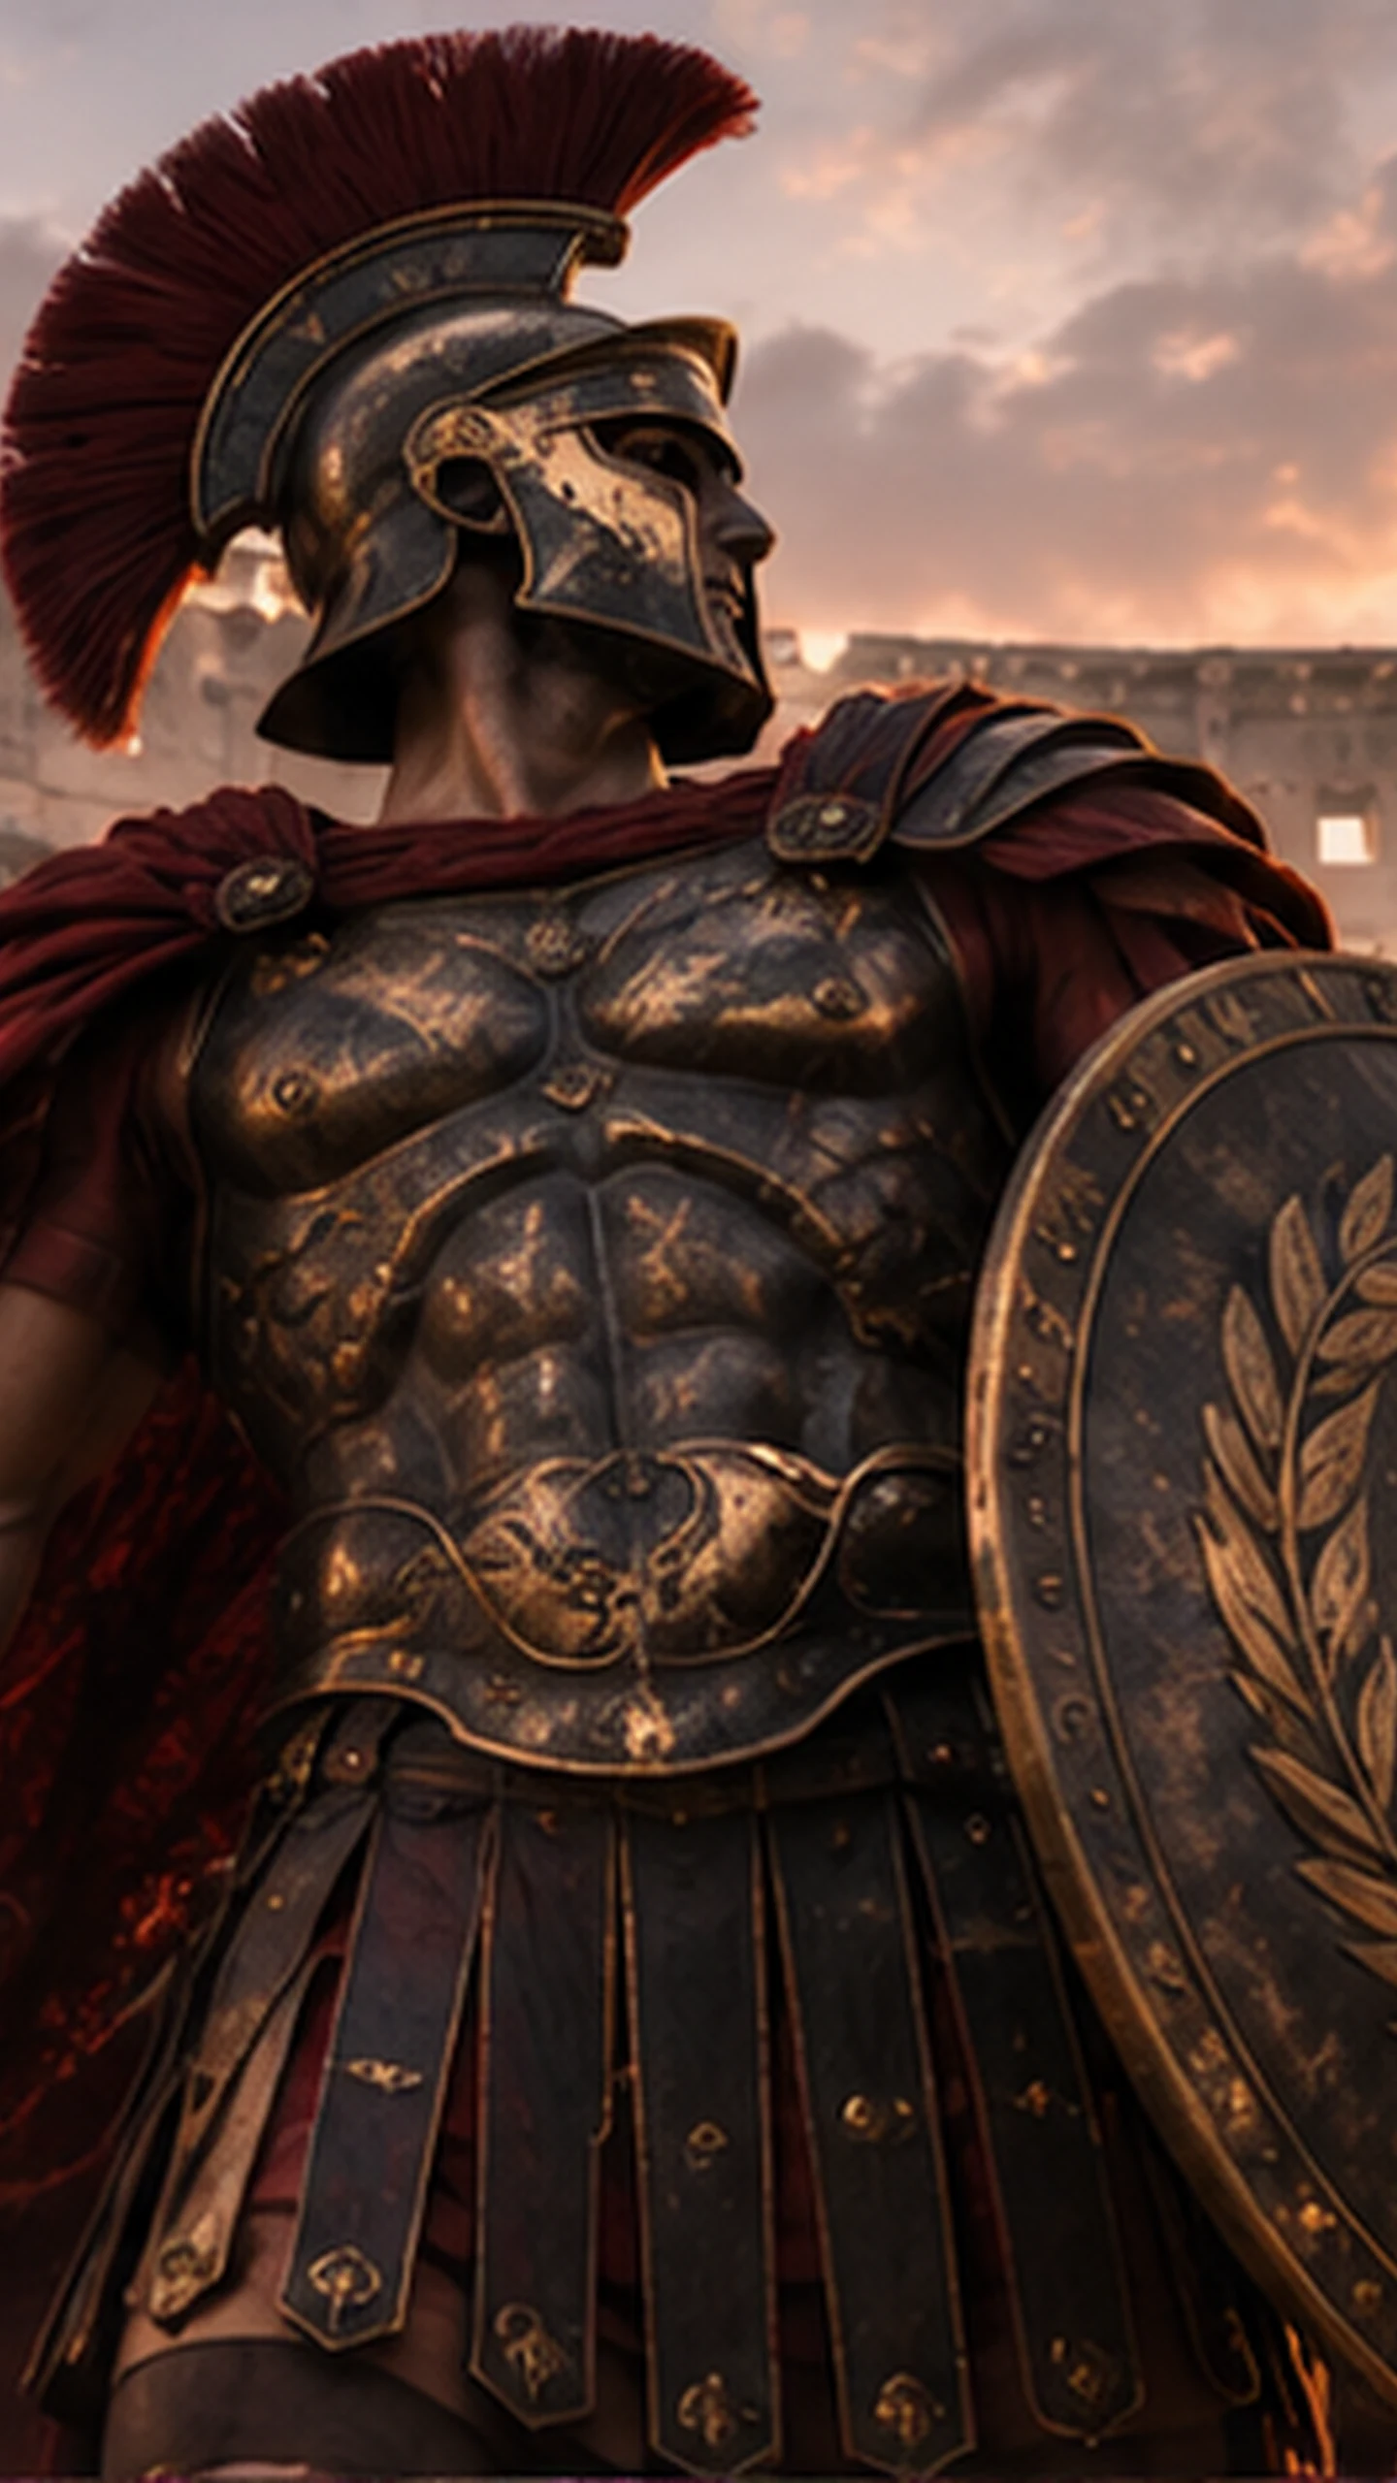
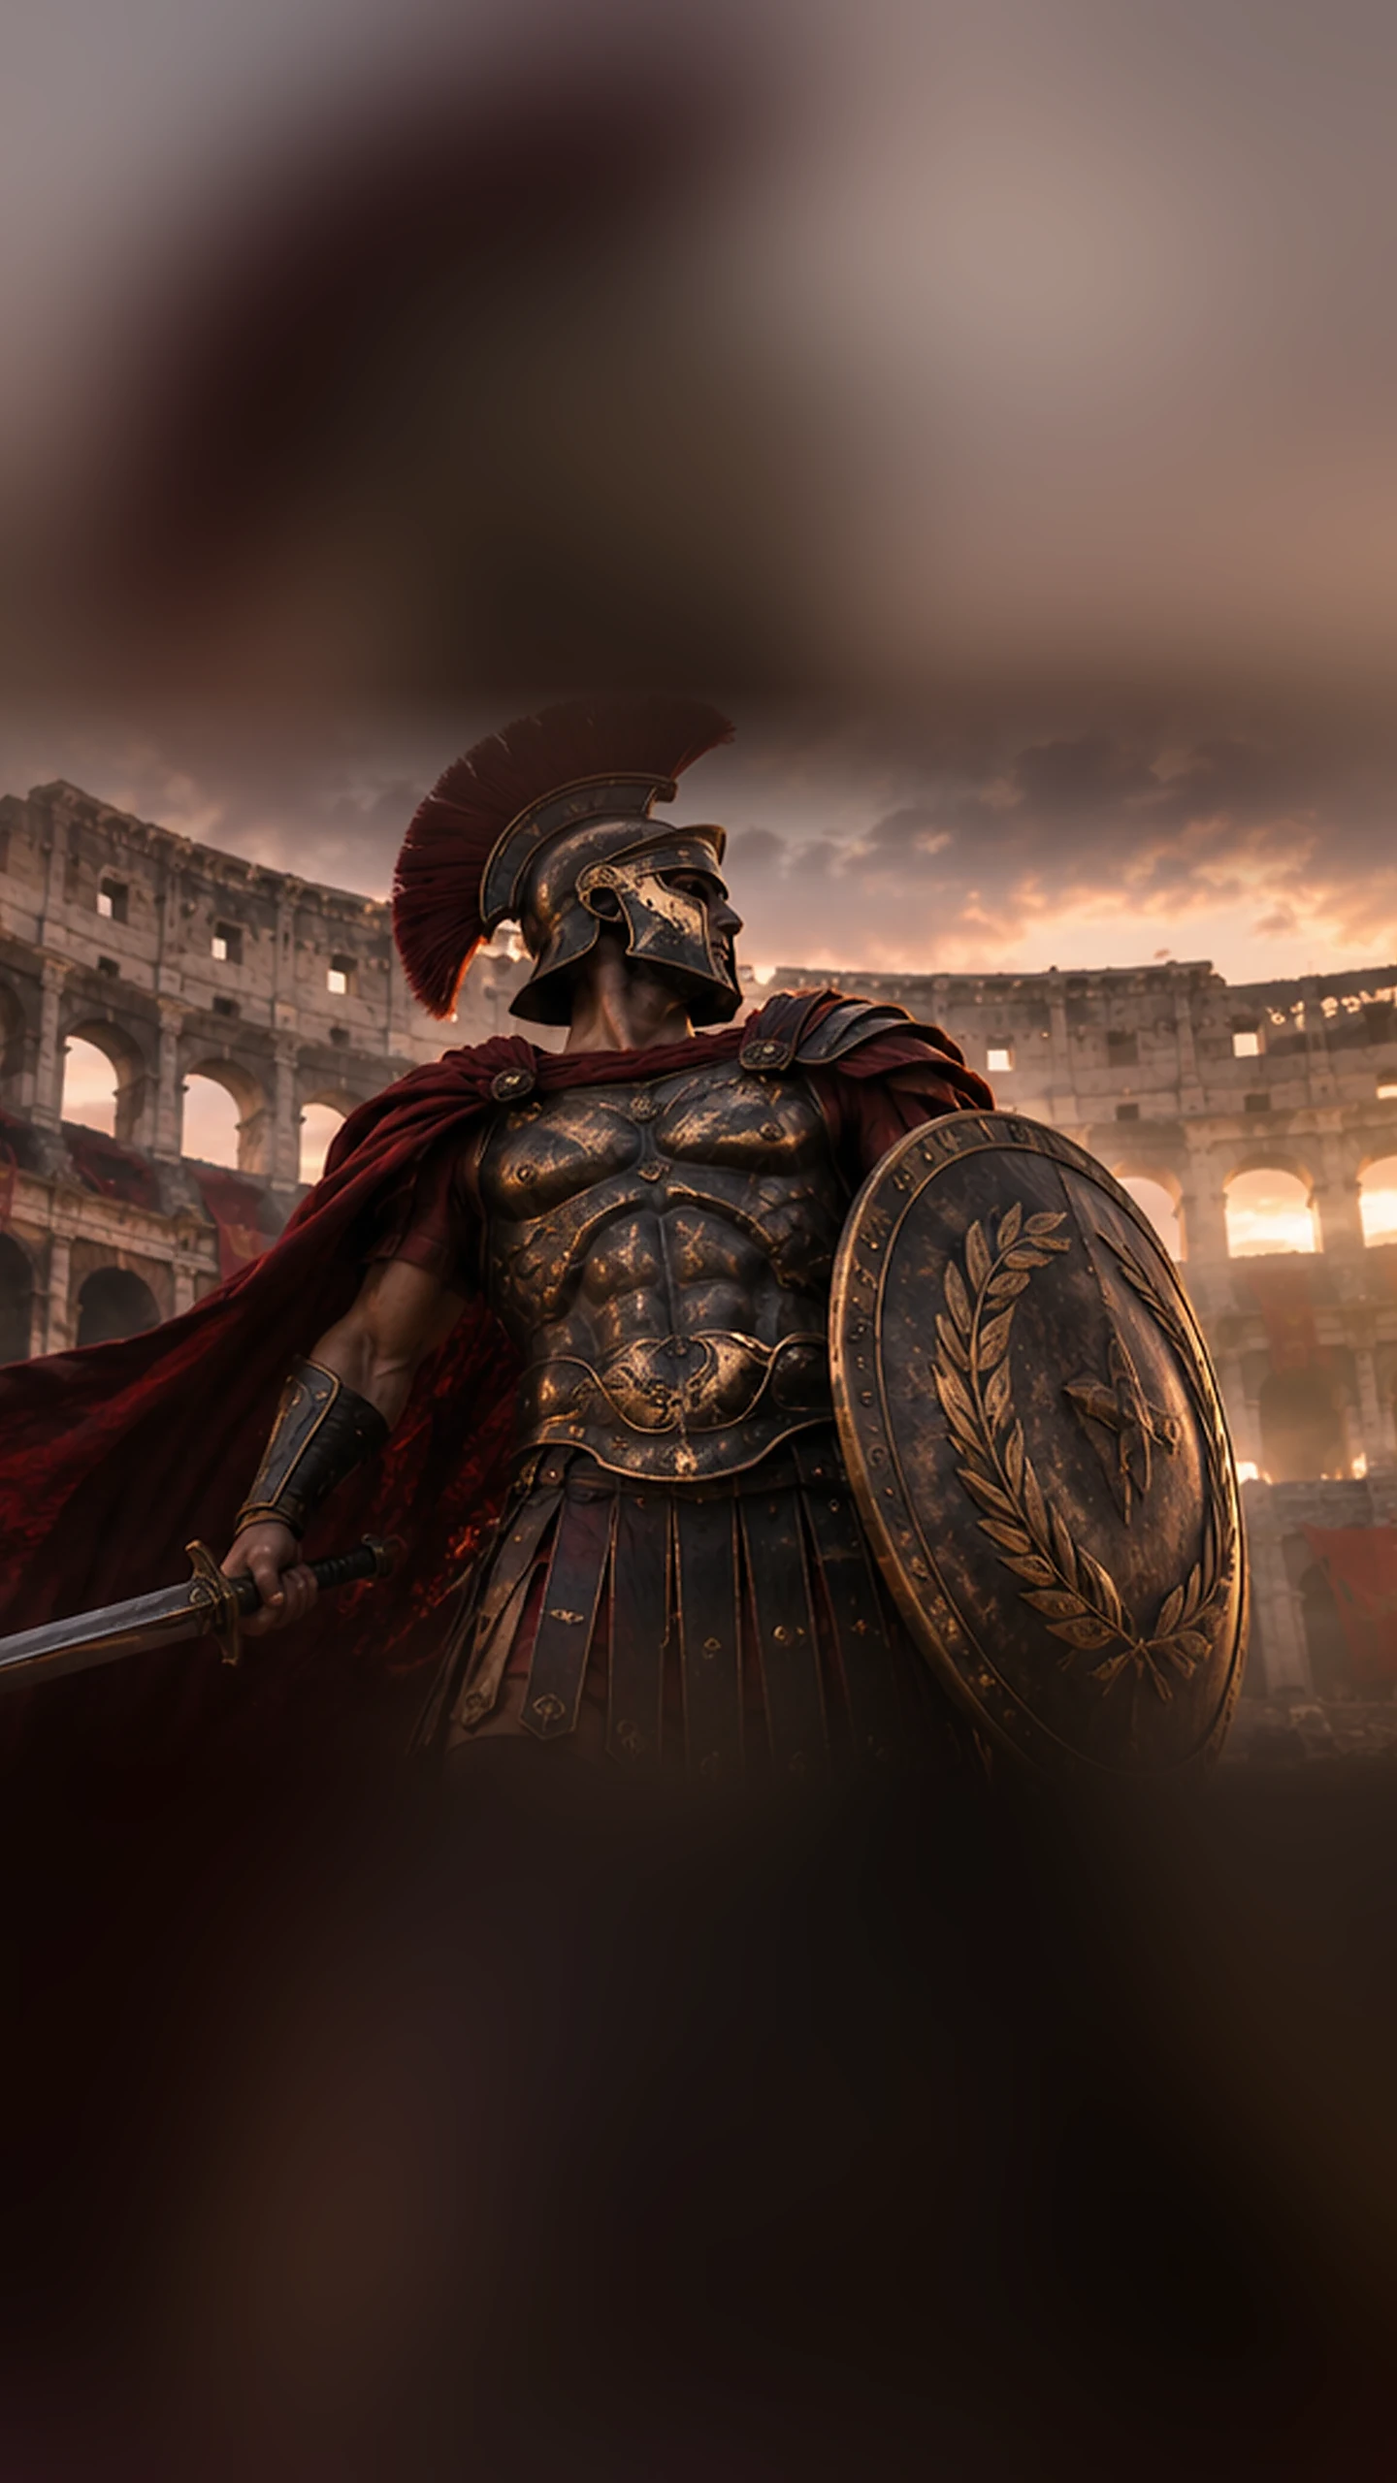
Fix 11 mobile wallpaper compositions and improve 3 desktop images from larger sources

diff --git a/src/components/ts/utils/BackgroundScene.tsx b/src/components/ts/utils/BackgroundScene.tsx
@@ -15,16 +15,16 @@ const photoSources: Partial<Record<StockScene, { desktop: string; mobile: string
     japaneseSakura: { desktop: "/wallpapers/japanese-sakura-desktop.webp?v=20261106-full", mobile: "/wallpapers/japanese-sakura-mobile.webp?v=20261106-full" },
     japaneseAlley: { desktop: "/wallpapers/japanese-alley-desktop.webp?v=20261106-full", mobile: "/wallpapers/japanese-alley-mobile.webp?v=20261106-full" },
     japaneseTorii: { desktop: "/wallpapers/japanese-torii-desktop.webp?v=20261106-full", mobile: "/wallpapers/japanese-torii-mobile.webp?v=20261106-full" },
-    greekStatue: { desktop: "/wallpapers/greekStatue-desktop.webp", mobile: "/wallpapers/greekStatue-mobile.webp" },
-    greekTemple: { desktop: "/wallpapers/greekTemple-desktop.webp", mobile: "/wallpapers/greekTemple-mobile.webp" },
-    greekGladiator: { desktop: "/wallpapers/greekGladiator-desktop.webp", mobile: "/wallpapers/greekGladiator-mobile.webp" },
-    greekColumns: { desktop: "/wallpapers/greekColumns-desktop.webp", mobile: "/wallpapers/greekColumns-mobile.webp" },
-    greekRuins: { desktop: "/wallpapers/greekRuins-desktop.webp", mobile: "/wallpapers/greekRuins-mobile.webp" },
-    mythOlympus: { desktop: "/wallpapers/mythOlympus-desktop.webp", mobile: "/wallpapers/mythOlympus-mobile.webp" },
-    mythDragon: { desktop: "/wallpapers/mythDragon-desktop.webp", mobile: "/wallpapers/mythDragon-mobile.webp" },
-    mythTree: { desktop: "/wallpapers/mythTree-desktop.webp", mobile: "/wallpapers/mythTree-mobile.webp" },
-    mythUnderworld: { desktop: "/wallpapers/mythUnderworld-desktop.webp", mobile: "/wallpapers/mythUnderworld-mobile.webp" },
-    mythPegasus: { desktop: "/wallpapers/mythPegasus-desktop.webp", mobile: "/wallpapers/mythPegasus-mobile.webp" },
+    greekStatue: { desktop: "/wallpapers/greekStatue-desktop.webp", mobile: "/wallpapers/greekStatue-mobile.webp?v=20261106-reframe" },
+    greekTemple: { desktop: "/wallpapers/greekTemple-desktop.webp?v=20261106-reframe", mobile: "/wallpapers/greekTemple-mobile.webp?v=20261106-reframe" },
+    greekGladiator: { desktop: "/wallpapers/greekGladiator-desktop.webp", mobile: "/wallpapers/greekGladiator-mobile.webp?v=20261106-reframe" },
+    greekColumns: { desktop: "/wallpapers/greekColumns-desktop.webp?v=20261106-reframe", mobile: "/wallpapers/greekColumns-mobile.webp?v=20261106-reframe" },
+    greekRuins: { desktop: "/wallpapers/greekRuins-desktop.webp", mobile: "/wallpapers/greekRuins-mobile.webp?v=20261106-reframe" },
+    mythOlympus: { desktop: "/wallpapers/mythOlympus-desktop.webp", mobile: "/wallpapers/mythOlympus-mobile.webp?v=20261106-reframe" },
+    mythDragon: { desktop: "/wallpapers/mythDragon-desktop.webp", mobile: "/wallpapers/mythDragon-mobile.webp?v=20261106-reframe" },
+    mythTree: { desktop: "/wallpapers/mythTree-desktop.webp", mobile: "/wallpapers/mythTree-mobile.webp?v=20261106-reframe" },
+    mythUnderworld: { desktop: "/wallpapers/mythUnderworld-desktop.webp", mobile: "/wallpapers/mythUnderworld-mobile.webp?v=20261106-reframe" },
+    mythPegasus: { desktop: "/wallpapers/mythPegasus-desktop.webp", mobile: "/wallpapers/mythPegasus-mobile.webp?v=20261106-reframe" },
     modernParis: { desktop: "/wallpapers/modernParis-desktop.svg", mobile: "/wallpapers/modernParis-mobile.svg" },
     modernDubai: { desktop: "/wallpapers/modernDubai-desktop.svg", mobile: "/wallpapers/modernDubai-mobile.svg" },
     modernSingapore: { desktop: "/wallpapers/modernSingapore-desktop.svg", mobile: "/wallpapers/modernSingapore-mobile.svg" },
@@ -55,7 +55,7 @@ const photoSources: Partial<Record<StockScene, { desktop: string; mobile: string
     cosmicEclipse: { desktop: "/wallpapers/cosmicEclipse-desktop.svg", mobile: "/wallpapers/cosmicEclipse-mobile.svg" },
     cosmicMoon: { desktop: "/wallpapers/cosmicMoon-desktop.svg", mobile: "/wallpapers/cosmicMoon-mobile.svg" },
     cosmicCloud: { desktop: "/wallpapers/cosmicCloud-desktop.svg", mobile: "/wallpapers/cosmicCloud-mobile.svg" },
-    japaneseGarden: { desktop: "/wallpapers/japaneseGarden-desktop.webp", mobile: "/wallpapers/japaneseGarden-mobile.webp" },
+    japaneseGarden: { desktop: "/wallpapers/japaneseGarden-desktop.webp?v=20261106-reframe", mobile: "/wallpapers/japaneseGarden-mobile.webp?v=20261106-reframe" },
     abstractSilk: { desktop: "/wallpapers/abstractSilk-desktop.svg", mobile: "/wallpapers/abstractSilk-mobile.svg" },
     abstractGlass: { desktop: "/wallpapers/abstractGlass-desktop.svg", mobile: "/wallpapers/abstractGlass-mobile.svg" }
 };

diff --git a/docs/WALLPAPERS.md b/docs/WALLPAPERS.md
@@ -101,3 +101,11 @@
 - Все десять файлов теперь самостоятельные статические `public/wallpapers/<id>-desktop.webp` (2560×1440) и `<id>-mobile.webp` (1440×2560). Desktop и mobile экспортированы из пяти кадров генерации в виде коллажей с последующим разрезанием: эффективная детализация исходников меньше размеров WebP; на телефонах используется центрированное кадрирование исходного кадра. Не указывать эти файлы как первоначально сгенерированные 2560×1440.
 - Параметр `photoSources` указывает на WebP; пять ID добавлены в `photographicScenes`, поэтому на них **не применяется** `atScenePhoto--themeAware` и они сохраняют оригинальную кинематографическую палитру, в отличие от декоративных CSS/SVG сцен, которые остаются `--accent`/`--grad`-зависимыми.
 - Предыдущие `myth*-desktop.svg` и `myth*-mobile.svg` удалены из репозитория как заменённые заглушки. Настройки, ID и локализация прежние.
+
+## Качество и мобильная композиция (06.11.2026)
+
+- Исходная ошибка: кадры пяти сюжетов `myth` и некоторых `greek` были вырезаны из коллажей примерно 836×470 и растянуты до 2560×1440. **Фактическая детализация не соответствует 2K**; не выдавать экспортный размер за реальное разрешение исходников.
+- Для трёх доступных отдельных исходников (`greekTemple`, `greekColumns`, `japaneseGarden`, 1672×941) подготовлены новые desktop WebP с аккуратной резкостью и качеством 93, без размытия от повторного пережатия старого WebP. Остальные desktop файлы в этом коммите не заменены: для реального улучшения требуется генерация новых отдельных кадров (не коллажей), а не дополнительный ресайз.
+- Пересобраны 11 mobile WebP для `greek*`, `myth*` и `japaneseGarden`: вместо узкого центрального кадрирования (~31% ширины исходника) **показывается ~70% горизонтальной композиции**. Главная часть изображения резкая, сверху и снизу фон естественно продолжается размытым кадром с плавным переходом. Это осознанный композиционный компромисс без генеративного outpaint, сохраняющий лица, крылья и архитектуру целиком.
+- Имена файлов и ID не меняются, пути получают query-version `?v=20261106-reframe` для сброса кэша. Двойную CSS-окраску к WebP не применять. Для настоящего edge-to-edge мобильного изображения необходимо генерировать отдельный вертикальный кадр 9:16 с соответствующей композицией.
+- Четыре существовавших японских WebP (`japaneseNinja`, `japaneseSakura`, `japaneseAlley`, `japaneseTorii`) этим изменением не затронуты.

diff --git a/docs/RELEASE_QA.md b/docs/RELEASE_QA.md
@@ -310,3 +310,9 @@
 - [ ] Все пять WebP-сцен отображаются в каталоге в прежнем порядке, работают переключение/применение/сохранение.
 - [ ] Проверить 10 URL (HTTP 200), размеры файлов, mobile-источники при ширине ≤800px, отсутствие перекраски через `--accent`.
 - [ ] Просмотреть композиционное кадрирование на узких экранах, прежде всего дракона, Аида и Пегаса; исходные обои увеличены из коллажа и могут быть менее резкими на больших экранах.
+
+### 06.11.2026 — исправление качества/кадрирования фотообоев
+- [ ] Сравнить две сборки на ПК: `greekTemple`, `greekColumns` и `japaneseGarden` используют исходники 1672×941 (лучше прежних промежуточных коллажей), однако не являются настоящим 2560×1440.
+- [ ] Проверить на мобильном разрешении 390×844 все 11 обновлённых обоев, особенно крылья Пегаса, дракона, профиль богини, колонны и храм; четкий объект виден целиком, продолжение верха/низа намеренно размыто.
+- [ ] Убедиться в запросах `?v=20261106-reframe`, 200 OK, загрузке mobile source при ширине <= 800 px, отсутствии обрезки в `object-fit:cover` при реальном размере 9:16.
+- [ ] Отдельная незавершённая задача: заменить montage-derived desktop исходники на настоящие индивидуальные изображения высокого разрешения — повторное увеличение не решает эту проблему.
